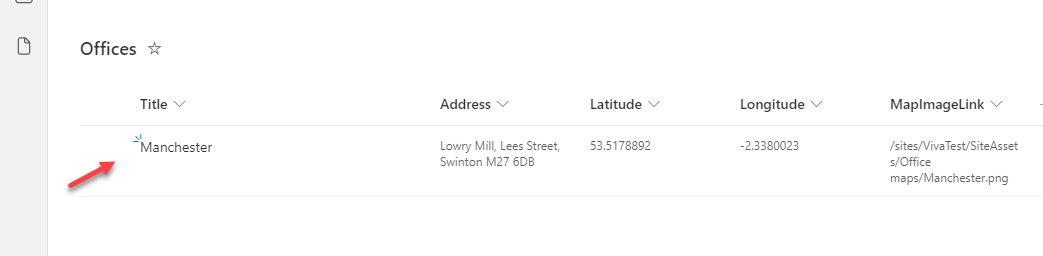
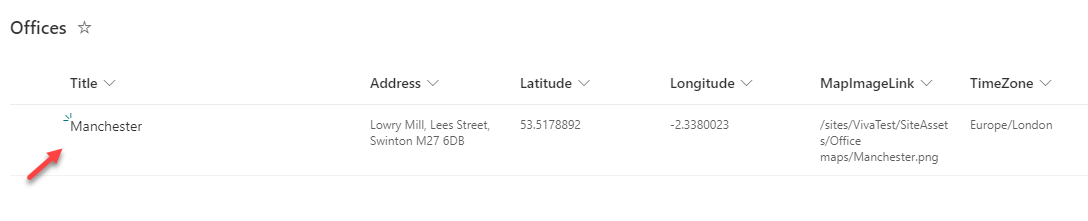
Updated README

diff --git a/samples/ImageCard-OfficeLocations/README.md b/samples/ImageCard-OfficeLocations/README.md
@@ -94,7 +94,7 @@ The `Map Image Link` by default contains a blank placeholder image. When maps AP
 
 A termset can be used as a data source for office locations.
 The office terms have to be first level child.
-Each office term must have custom properties called `Address`, `Latitude`, `Longitude` and `MapImageLink` (optional).
+Each office term must have custom properties called `Address`, `Latitude`, `Longitude`, `TimeZone` and `MapImageLink` (optional).
 When maps API is not being used then this can be updated to point to a [static map image](#usage-of-maps-api) of size 400x300. 
 
 3. SharePoint list
@@ -108,6 +108,7 @@ The list must have the following `single line of text` columns
 - Latitude
 - Longitude
 - MapImageLink
+- TimeZone
 When maps API is not being used then this can be updated to point to a [static map image](#usage-of-maps-api) of size 400x300. 
 
 #### Usage of Maps API
